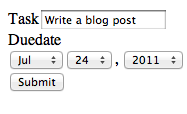
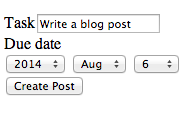
images and root files updated for 2.6 documentation

Changed region(s): [[0.0, 0.0789, 0.9893, 0.8421]]

diff --git a/conf.py b/conf.py
@@ -47,7 +47,7 @@ source_suffix = '.rst'
 master_doc = 'index'
 
 # General information about the project.
-project = 'Symfony2 Framework Documentation'
+project = 'Symfony Framework Documentation'
 copyright = ''
 
 # The version info for the project you're documenting, acts as replacement for

diff --git a/changelog.rst b/changelog.rst
@@ -13,6 +13,154 @@ documentation.
     Do you also want to participate in the Symfony Documentation? Take a look
     at the ":doc:`/contributing/documentation/overview`" article.
 
+August, 2014
+------------
+
+New Documentation
+~~~~~~~~~~~~~~~~~
+
+- `bccb080 <https://github.com/symfony/symfony-docs/commit/bccb080bd7eeb30e3d3c48c656be0c696b0cec85>`_ #4140 [Cookbook][Logging] document multiple recipients in XML configs (xabbuh)
+- `7a6e3d1 <https://github.com/symfony/symfony-docs/commit/7a6e3d19115a027bcd717916548accb9702b2fe9>`_ #4150 Added the schema_filter option to the reference (peterrehm)
+- `be90d8a <https://github.com/symfony/symfony-docs/commit/be90d8a631f9ec39f2307959bb43dc23e36fcf5a>`_ #4142 [Cookbook][Configuration] tweaks for the web server configuration chapter (xabbuh)
+- `5379f54 <https://github.com/symfony/symfony-docs/commit/5379f5402b47b77f970c034834ea65efdce9b3f3>`_ #4086 [Reference][Constraints] Added hint about attaching the expression constraint to a form field (peterrehm)
+- `041105c <https://github.com/symfony/symfony-docs/commit/041105c438f5f5072cbe6ceb380212412a2c5ef6>`_ #3883 Removed redundant POST request exclusion info (ryancastle)
+- `4f9fef6 <https://github.com/symfony/symfony-docs/commit/4f9fef61a96cfda6fa5c3ac228647ccbdbde8ea9>`_ #4000 [Cookbook] add cookbook article for the server:run command (xabbuh)
+- `4ea4dfe <https://github.com/symfony/symfony-docs/commit/4ea4dfecd531a18d4a10a697f3af8b8b9f44c365>`_ #3915 [Cookbook][Configuration] documentation of Apache + PHP-FPM (xabbuh)
+- `79cb4f1 <https://github.com/symfony/symfony-docs/commit/79cb4f1a74ec583ed6d12083d1d51f36b5e6fb9b>`_ #4069 document the namespace alias (dbu)
+- `08bed5f <https://github.com/symfony/symfony-docs/commit/08bed5fd0d9239ef5d59ec06e1c6571198daf275>`_ #4128 Finished #3759 (WouterJ)
+- `4d5adaa <https://github.com/symfony/symfony-docs/commit/4d5adaa4ccef36fbec631ad05ce7389cbd575ebd>`_ #4125 Added link to JSFiddle example (WouterJ)
+- `75bda4b <https://github.com/symfony/symfony-docs/commit/75bda4bcdcf887e5a01a399bdf7790c72499a2e9>`_ #4124 Rebased #3965 (WouterJ)
+- `e2f13a4 <https://github.com/symfony/symfony-docs/commit/e2f13a482884061a4254d3d2b0479f2aefcf8bb4>`_ #4039 [DomCrawler] Added node name getter (fejese)
+- `3f92d5f <https://github.com/symfony/symfony-docs/commit/3f92d5f5e77d63c9328ead5403ea1b3d23d62ceb>`_ #3966 [Cookbook][Controller] Add note about invokable controller services (kbond)
+- `fdb8a32 <https://github.com/symfony/symfony-docs/commit/fdb8a324b07c183cbda5e8e77ae2f59f2319a301>`_ #3950 [Components][EventDispatcher] describe the usage of the RegisterListenersPass (xabbuh)
+- `7e09383 <https://github.com/symfony/symfony-docs/commit/7e093830741508805d548402561b443874403760>`_ #3940 Updated docs for Monolog "swift" handler in cookbook. (phansys)
+- `9d7c999 <https://github.com/symfony/symfony-docs/commit/9d7c9994515a021d940dda7753d7b99916fa21d1>`_ #3895 [Validator] Support "maxSize" given in KiB (jeremy-derusse)
+- `8adfe98 <https://github.com/symfony/symfony-docs/commit/8adfe98d822c905ac7877affa14ec5e447662fbe>`_ #3894 Rewrote Extension & Configuration docs (WouterJ)
+- `cafea43 <https://github.com/symfony/symfony-docs/commit/cafea438624ea9e36639f48d38483c292a6dd476>`_ #3888 Updated the example used to explain page creation (javiereguiluz)
+- `df0cf68 <https://github.com/symfony/symfony-docs/commit/df0cf68b6ab3b8974c03482349602833f4ec5387>`_ #3885 [RFR] Added "How to Organize Configuration Files" cookbook (javiereguiluz)
+- `41116da <https://github.com/symfony/symfony-docs/commit/41116dae3d9e34852cc3ef5e105d23f5c1f67c63>`_ #4081 [Components][ClassLoader] documentation for the ClassMapGenerator class (xabbuh)
+- `2b9cb7c <https://github.com/symfony/symfony-docs/commit/2b9cb7c210245cd6586fd82ece291a5d290113f5>`_ #4076 Fixed description of session storage of the ApiKeyAuthenticator (peterrehm)
+- `35a0f66 <https://github.com/symfony/symfony-docs/commit/35a0f66254429dff1c79e20925969509c90aba0b>`_ #4102 Adding a new entry about reverse proxies in the framework (weaverryan)
+- `95c2066 <https://github.com/symfony/symfony-docs/commit/95c20664ddc5bb2c8e059b9acf44a938c573c19e>`_ #4096 labels in submit buttons + new screenshot (ricardclau)
+
+Fixed Documentation
+~~~~~~~~~~~~~~~~~~~
+
+- `5fac303 <https://github.com/symfony/symfony-docs/commit/5fac303e45053fc3fec61fc64b1a8b5a2b819af0>`_ #4165 Update voters.rst (gerryvdm)
+- `4882b99 <https://github.com/symfony/symfony-docs/commit/4882b998e3284211616e721e924fbcba0c8c96ce>`_ #4164 Fixed minor typos. (ahsio)
+- `eaaa35a <https://github.com/symfony/symfony-docs/commit/eaaa35af3b9d9753484bfc0d35fc07bc933fdb0d>`_ #4145 Fix documentation for group_sequence_provider (giosh94mhz)
+- `155c3e8 <https://github.com/symfony/symfony-docs/commit/155c3e8829c822125f7e4c69497ad6237b618a57>`_ #4153 [Reference] fix namespace in Expression constraint (xabbuh)
+- `2c93aa5 <https://github.com/symfony/symfony-docs/commit/2c93aa52114f62cb59053340b91998630316465d>`_ #4147 [Cookbook][Logging] add missing Monolog handler type in XML config (xabbuh)
+- `53b2c2b <https://github.com/symfony/symfony-docs/commit/53b2c2be9f077afb5120cb3a3b39d58961073861>`_ #4139 cleaned up the code example (gondo)
+- `b5c9f2a <https://github.com/symfony/symfony-docs/commit/b5c9f2ae0ab8b3761bf005e36c3a20df12ae4c0f>`_ #4138 fixed wrongly linked dependency (gondo)
+- `b486b22 <https://github.com/symfony/symfony-docs/commit/b486b220d3993cd0b2b60a75c2a6ba986439f5c4>`_ #4131 Replaced old way of specifying http method by the new one (Baptouuuu)
+- `93481d7 <https://github.com/symfony/symfony-docs/commit/93481d7b2236394939941809020f82005194844a>`_ #4120 Fix use mistakes (mbutkereit)
+- `c0a0120 <https://github.com/symfony/symfony-docs/commit/c0a0120cb59ae97abc813425a68311b458dc722e>`_ #4119 Fix class name in ConsoleTerminateListener example (alOneh)
+- `4629d8b <https://github.com/symfony/symfony-docs/commit/4629d8b5293b6f93897765b8317e5486d7b1e5b2>`_ #4116 Fixed the code snippets for the expression language functions (stof)
+- `d699255 <https://github.com/symfony/symfony-docs/commit/d6992559f1a4e59fe4f29db1a1b5961266d085c5>`_ #4083 [Reference] field dependent empty_data option description (xabbuh)
+- `3ffc20f <https://github.com/symfony/symfony-docs/commit/3ffc20fcee21b3df5b16e7d270634ac4e682d163>`_ #4103 [Cookbook][Forms] fix PHP template file name (xabbuh)
+- `234fa36 <https://github.com/symfony/symfony-docs/commit/234fa364612d70da60ad3cb997fca0123db473e6>`_ #4095 Fix php template (piotrantosik)
+- `01fb9f2 <https://github.com/symfony/symfony-docs/commit/01fb9f245975d8769ab6f27e9c25578270d55a29>`_ #4093 See #4091 (dannykopping)
+- `8f3a261 <https://github.com/symfony/symfony-docs/commit/8f3a261d1d1e6d6378cd67612ad9227a10334723>`_ #4092 See #4091 (dannykopping)
+- `7d39b03 <https://github.com/symfony/symfony-docs/commit/7d39b03b09d60ebb0d400f080079e6d2a2d55bdd>`_ #4079 Fixed typo in filesystem component (kohkimakimoto)
+- `f0bde03 <https://github.com/symfony/symfony-docs/commit/f0bde034a600179024847fc54fa0dcdcdd9299be>`_ #4075 Fixed typo in the yml validation (timothymctim)
+
+Minor Documentation Changes
+~~~~~~~~~~~~~~~~~~~~~~~~~~~
+
+- `e9d317a <https://github.com/symfony/symfony-docs/commit/e9d317a1fc653636605a207ed5cb2c4880860658>`_ #4160 [Reference] consistent & complete config examples (xabbuh)
+- `3e68ee7 <https://github.com/symfony/symfony-docs/commit/3e68ee78c2a7288ba0bf9264833c22c3c1b28aff>`_ #4152 Adding 'attr' option to the Textarea options list (ronanguilloux)
+- `a7f3297 <https://github.com/symfony/symfony-docs/commit/a7f329772d6cf47184e6a9fd35478107cd3d9e91>`_ #4136 [Reference] fix from suffix to prefix (xabbuh)
+- `c4eb628 <https://github.com/symfony/symfony-docs/commit/c4eb628781d5cb487d15e7effed51efbe6f64f13>`_ #4130 A set of small typos (Baptouuuu)
+- `236d8e0 <https://github.com/symfony/symfony-docs/commit/236d8e08b5d282948a42c169f0090faed66c42fc>`_ #4137 fixed directive syntax (WouterJ)
+- `6e90520 <https://github.com/symfony/symfony-docs/commit/6e90520d4c8ea72a90d910b0adac917e33e5d963>`_ #4135 [#3940] Adding php example for an array of emails (weaverryan)
+- `b37ee61 <https://github.com/symfony/symfony-docs/commit/b37ee61d264fa81811ff90e3f492708f0f70b58a>`_ #4132 Use proper way to reference a doc page for legacy sessions (Baptouuuu)
+- `189a123 <https://github.com/symfony/symfony-docs/commit/189a1234bbf0630004c4ad76a9e535e382c354ce>`_ #4129 [Components] consistent & complete config examples (xabbuh)
+- `5ab5246 <https://github.com/symfony/symfony-docs/commit/5ab5246c2499c2906239750f39a172a8afa496f4>`_ #4127 Second part of #3848 (WouterJ)
+- `46f3108 <https://github.com/symfony/symfony-docs/commit/46f3108fee8f6a514b4376ad9dddb37aa6e5342d>`_ #4126 Rebased #3848 (WouterJ)
+- `84e6e7f <https://github.com/symfony/symfony-docs/commit/84e6e7f69f7fc5693075012d69509ad437f455ff>`_ #4114 [Book] consistent and complete config examples (xabbuh)
+- `03fcab1 <https://github.com/symfony/symfony-docs/commit/03fcab142743528643ee04895b2287420e2a1d76>`_ #4112 [Contributing][Documentation] add order of translation formats (xabbuh)
+- `650120a <https://github.com/symfony/symfony-docs/commit/650120ada5c432d2a2a3f54386c88f180d0f43b3>`_ #4002 added Github teams for the core team (fabpot)
+- `10792c3 <https://github.com/symfony/symfony-docs/commit/10792c330506ad2366147f36410233341e86701e>`_ #3959 [book][cache][tip] added cache annotations. (aitboudad)
+- `ebaed21 <https://github.com/symfony/symfony-docs/commit/ebaed21ff67074d02d5812060fc9d5f85ec237e1>`_ #3944 Update dbal.rst (bpiepiora)
+- `16e346a <https://github.com/symfony/symfony-docs/commit/16e346ad07c8139b20bbc10600ceed1563fbe1f2>`_ #3890 [Components][HttpFoundation] use a placeholder for the constructor arguments (xabbuh)
+- `7bb4f34 <https://github.com/symfony/symfony-docs/commit/7bb4f3447d0b0a7bd524dfbb89dc4a17f8090a8b>`_ #4115 [Documentation] [Minor] Changes foobar.net in example.com (magnetik)
+- `12d0b82 <https://github.com/symfony/symfony-docs/commit/12d0b825f158639928e0ea9acc9535cc4ffbd676>`_ #4113 tweaks to the new reverse proxy/load balancer chapter (xabbuh)
+- `4cce133 <https://github.com/symfony/symfony-docs/commit/4cce133b5b55fce7cafa26257e530838f587a814>`_ #4057 Update introduction.rst (carltondickson)
+- `26141d6 <https://github.com/symfony/symfony-docs/commit/26141d68dfda0959ad75e17c5db51de399f97975>`_ #4080 [Reference] order form type options alphabetically (xabbuh)
+- `7806aa7 <https://github.com/symfony/symfony-docs/commit/7806aa7de543baf167d445dc5901121a2e460599>`_ #4117 Added a note about the automatic handling of the memory spool in the CLI (stof)
+- `5959b6c <https://github.com/symfony/symfony-docs/commit/5959b6c64156e0e6dfca060412358b12c5ea117b>`_ #4101 [Contributing] extended Symfony 2.4 maintenance (xabbuh)
+- `e2056ad <https://github.com/symfony/symfony-docs/commit/e2056ad7db522e117c5f310690c993a2a5a3a725>`_ #4072 [Contributing][Code] add note on Symfony SE forks for bug reports (xabbuh)
+- `b8687dd <https://github.com/symfony/symfony-docs/commit/b8687dd452ac200adbc8aee347c9235329f1f265>`_ #4091 Put version into quotes, otherwise it fails in ZSH (dannykopping)
+- `665c091 <https://github.com/symfony/symfony-docs/commit/665c0913e52470f4b4b8070a52462285cad62863>`_ #4087 Typo (tvlooy)
+- `f95bbf3 <https://github.com/symfony/symfony-docs/commit/f95bbf34c990d3d7e06fa48d790f06ff5814563e>`_ #4023 [Cookbook][Security] usage of a non-default entity manager in an entity user provider (xabbuh)
+- `27b1003 <https://github.com/symfony/symfony-docs/commit/27b10033d12a247f3af22333e7854d402ff3139d>`_ #4074 Fixed (again) a typo: Toolbet --> Toolbelt (javiereguiluz)
+- `c97418f <https://github.com/symfony/symfony-docs/commit/c97418fdb030960c5f0dd10a635a4d49579c4216>`_ #4073 Reworded bundle requirement (WouterJ)
+- `e5d5eb8 <https://github.com/symfony/symfony-docs/commit/e5d5eb8ae4307c17b3e2e157eafb4d5d32d0f557>`_ #4066 Update inherit_data_option.rst (Oylex)
+- `9c08572 <https://github.com/symfony/symfony-docs/commit/9c08572fc55a8dff83ff7e3c985f3e66936d57af>`_ #4064 Fixed typo on tag service (saro0h)
+
+July, 2014
+----------
+
+New Documentation
+~~~~~~~~~~~~~~~~~
+
+- `1b4c1c8 <https://github.com/symfony/symfony-docs/commit/1b4c1c86a3e4729e1a6ce226963ac05577b8ab8f>`_ #4045 Added a new "Deploying to Heroku Cloud" cookbook article (javiereguiluz)
+- `f943eee <https://github.com/symfony/symfony-docs/commit/f943eee70cf81b90a598d94f400a3723216fe726>`_ #4009 Remove "Controllers extends ContainerAware" best practice (tgalopin)
+- `eae9ad0 <https://github.com/symfony/symfony-docs/commit/eae9ad037ed402752238e4eb1c9c0b2fdc443d7d>`_ #3875 Added a note about customizing a form with more than one template (javiereguiluz)
+- `2ae4f34 <https://github.com/symfony/symfony-docs/commit/2ae4f34a1e0afe699ccaacf2740440a0752a9a99>`_ #3746 [Validator] Disallow empty file in FileValidator (megazoll)
+- `1938c2f <https://github.com/symfony/symfony-docs/commit/1938c2f9f7dbf770d694d1cc976fde5e519ba47c>`_ #3724 Updated ISBN validator docs (sprain)
+- `7c71b18 <https://github.com/symfony/symfony-docs/commit/7c71b188f4fae43c1ff141b2d84f887b131d2b71>`_ #2952 Enabling profiler in test (danieledangeli)
+- `d6787b7 <https://github.com/symfony/symfony-docs/commit/d6787b7b64ed6d20cafee0134a99e590bee6102b>`_ #3989 adde stof as a merger (fabpot)
+- `4a9e49e <https://github.com/symfony/symfony-docs/commit/4a9e49ef142fdeeb5523dbdcf73503ac602373e7>`_ #3946 DQL custom functions on doctrine reference page (healdropper)
+- `2b2d9d3 <https://github.com/symfony/symfony-docs/commit/2b2d9d348a7d9c46b9a5b04ef2cd088151668886>`_ #3972 Added PSR-4 to Class Loaders list (dosten)
+
+Fixed Documentation
+~~~~~~~~~~~~~~~~~~~
+
+- `1b695b5 <https://github.com/symfony/symfony-docs/commit/1b695b52a3f8094daf18d212a124a6050f2fad1a>`_ #4063 fix parent form types (xabbuh)
+- `7901005 <https://github.com/symfony/symfony-docs/commit/7901005f37d223cd4541648131bccc0e4bd687d5>`_ #4048 $this->request replaced by $request (danielsan)
+- `f6123f1 <https://github.com/symfony/symfony-docs/commit/f6123f1bb06d624fc2d0506bcf6f4016c0b3e371>`_ #4031 Update form_events.rst (redstar504)
+- `99932cf <https://github.com/symfony/symfony-docs/commit/99932cf0f98c15e0504a41867046b374305865d3>`_ #4010 [Console] Fixed documentation for ProgressBar (VasekPurchart)
+- `06f8c31 <https://github.com/symfony/symfony-docs/commit/06f8c3157f76da36847a70d132c61971ac72dc1e>`_ #4012 Fix xml route configuration for routing condition (xavierbriand)
+- `a2a628f <https://github.com/symfony/symfony-docs/commit/a2a628f0b2d60878041cd2a008f9ddfd9a471408>`_ #4025 added CVE 2014-4931 (fabpot)
+- `a1435e5 <https://github.com/symfony/symfony-docs/commit/a1435e57fd95e14ffff171f797133a1c52569cb1>`_ #3998 [Console] Fixed QuestionHelper examples (florianv)
+- `b32f9f2 <https://github.com/symfony/symfony-docs/commit/b32f9f2981ae3d63d547c07cee7f0cb03dc7db5a>`_ #3771 Fix function example in expression language component (raulfraile)
+- `eb813a5 <https://github.com/symfony/symfony-docs/commit/eb813a563c564358ba82253ea667516cd3e7191d>`_ #3979 removed invalid processors option (ricoli)
+
+Minor Documentation Changes
+~~~~~~~~~~~~~~~~~~~~~~~~~~~
+
+- `a4bdb97 <https://github.com/symfony/symfony-docs/commit/a4bdb97a92dd54709cd85be8e9998a6ced6974da>`_ #4070 Added a note about permissions in the Quick Tour (javiereguiluz)
+- `a7fe00f <https://github.com/symfony/symfony-docs/commit/a7fe00fedea3ba89089a2de6fb54970cdbe2440e>`_ #4068 Remove diff info from cookbook/security/voters.rst (pmartelletti)
+- `b3f15b2 <https://github.com/symfony/symfony-docs/commit/b3f15b2dc78c0593e6db09311c0c79eba68a97f0>`_ #4059 eraseCredentials method typo (danielsan)
+- `44091b1 <https://github.com/symfony/symfony-docs/commit/44091b132c1007535ff3030a64126751486982cd>`_ #4053 Update doctrine.rst (sr972)
+- `b06ad60 <https://github.com/symfony/symfony-docs/commit/b06ad6041164479c049ae4c202b13b3f248c3bed>`_ #4052 [Security] [Custom Provider] Use properties on WebserviceUser (entering)
+- `a834a7e <https://github.com/symfony/symfony-docs/commit/a834a7e883e78005ed41a6cea0dcee058ed85b1f>`_ #4042 [Cookbook] apply headline guidelines to the cookbook articles (xabbuh)
+- `f25faf3 <https://github.com/symfony/symfony-docs/commit/f25faf3ed3facd3812b743288465ee9ca25397a4>`_ #4046 Fixed a syntax error (javiereguiluz)
+- `3c660d1 <https://github.com/symfony/symfony-docs/commit/3c660d13390cc1cf05e9d0be98bbce847002c05b>`_ #4044 Added editorconfig (WouterJ)
+- `ae3ec04 <https://github.com/symfony/symfony-docs/commit/ae3ec048e8583082928bffadb079d1391e888f0f>`_ #4041 [Cookbook][Deployment] link to the deployment index (xabbuh)
+- `2e4fc7f <https://github.com/symfony/symfony-docs/commit/2e4fc7f3a5dd4caa4ee5cbfade6989e71bcda123>`_ #4030 enclose YAML strings containing % with quotes (xabbuh)
+- `9520d92 <https://github.com/symfony/symfony-docs/commit/9520d9299e6ddbc19985e0ed322349c70d89cdc7>`_ #4038 Update rendered tag (kirill-oficerov)
+- `f5c2602 <https://github.com/symfony/symfony-docs/commit/f5c260219f8e7df969493df2fe2d2feb1fc97e19>`_ #4036 Update page_creation.rst (redstar504)
+- `c2eda93 <https://github.com/symfony/symfony-docs/commit/c2eda939ad8681721cd1b12bcedadd1faf294725>`_ #4034 Update internals.rst (redstar504)
+- `a5ad0df <https://github.com/symfony/symfony-docs/commit/a5ad0dfbf9ad2dcc84e7f9c6de73c8bad2a89e2f>`_ #4035 Update version in Rework your Patch section (yguedidi)
+- `eed8d64 <https://github.com/symfony/symfony-docs/commit/eed8d646ad134bba1002f98800cab46d06241a05>`_ #4026 Updating Symfony version from 2.4 to 2.5 (danielsan)
+- `12752c1 <https://github.com/symfony/symfony-docs/commit/12752c1decd5ec5a3bce960c094f45738122152f>`_ #4013 Removed wrong reference to cookbook (gquemener)
+- `ec832dc <https://github.com/symfony/symfony-docs/commit/ec832dc4eadbe5afdfb5f39994b69748b733a85b>`_ #3994 [Console] Fix Console component $app to $this and use of getHelper() method (eko)
+- `d8b037a <https://github.com/symfony/symfony-docs/commit/d8b037a989c1581ae671e81284d0d758254d8e1e>`_ #4019 Update twig_reference.rst (redstar504)
+- `7ea87e6 <https://github.com/symfony/symfony-docs/commit/7ea87e63e3417c59e47972b9cf12ca76cce4b195>`_ #4016 Fixed the format of one letter-based list (javiereguiluz)
+- `579a873 <https://github.com/symfony/symfony-docs/commit/579a8732299dd944998ab3fee4fa738a3c45cea2>`_ #4015 Fixed bad indenting (the list was treated as a blockquote) (javiereguiluz)
+- `4669620 <https://github.com/symfony/symfony-docs/commit/466962051e0753557fc75d9d449083d68ae48992>`_ #4004 use GitHub instead of Github (xabbuh)
+- `a3fe74f <https://github.com/symfony/symfony-docs/commit/a3fe74f4fad9f691dc570fb9234acd15bd6ccfdc>`_ #3993 [Console] Fix Console component getHelperSet()->get() to getHelper() (eko)
+- `a41af7e <https://github.com/symfony/symfony-docs/commit/a41af7e0f4a10cf7a6230598fd955dab2559935e>`_ #3880 document the mysterious abc part of the header (greg0ire)
+- `90773b0 <https://github.com/symfony/symfony-docs/commit/90773b03425388542d1b0face5368eb4c47ce3b8>`_ #3990 Move the section about collect: false to the cookbook entry (weaverryan)
+- `2ae8281 <https://github.com/symfony/symfony-docs/commit/2ae82816556478c75ba9873589b2d77987156c36>`_ #3864 plug rules for static methods (cordoval)
+- `d882cc0 <https://github.com/symfony/symfony-docs/commit/d882cc0e0b41e8c49187854d40dfb0963b429939>`_ #3988 fix typos. (yositani2002)
+- `b67a059 <https://github.com/symfony/symfony-docs/commit/b67a059d5ff8c45482df135ed8dda5b3bcc81f3a>`_ #3986 Rebased #3982 - Some fixes (WouterJ)
+- `801c756 <https://github.com/symfony/symfony-docs/commit/801c7565a3e6c0d440fb86f1b2fd4a076ff4399c>`_ #3977 [WCM] removed call to deprecated getRequest() method (Baptouuuu)
+- `4c1d4ae <https://github.com/symfony/symfony-docs/commit/4c1d4ae506a7dc68fad57ddf6cc25c17a00169a4>`_ #3968 Proofreading the new Azure deployment article (weaverryan)
+
 June, 2014
 ----------
 

diff --git a/glossary.rst b/glossary.rst
@@ -7,12 +7,12 @@ Glossary
    :sorted:
 
    Distribucija
-        *Distribucija* je paket izdelan iz Symfony2 komponent,
+        *Distribucija* je paket izdelan iz Symfony komponent,
         izbire paketov, smiselne strukture direktorijev, privzetih nastavitev
         in opcijskega nastavitvenega sistema.
 
    Dependency Injection
-        Dependency Injection je načrtovalski vzorec, veliko uporabljen v Symfony2 ogrodju.
+        Dependency Injection je načrtovalski vzorec, veliko uporabljen v Symfony ogrodju.
         Spodbuja ohlapno skupno in bolj trajnostno arhitektur aplikacije.
         Glavni princip tega vzorca je, da dovoljuje razvijalcem *vbrizganje* objektov
         (znanih tudi kot storitve) v druge objekte, v splošnem jih podaja kot parametre.
@@ -33,7 +33,7 @@ Glossary
    Paket (Bundle)
         *Paket* je direktorij, ki vsebuje skupek datotek (PHP datotek,
         stilskih datotek, JavaScript, slike, ...), ki *implementirajo* eno
-        lastnost (blog, forum itd.). V Symfony2, se (*skoraj*) vse
+        lastnost (blog, forum itd.). V Symfony, se (*skoraj*) vse
         nahaja znotraj paketa. (see :ref:`page-creation-bundles`)
 
    Prednji krmilnik
@@ -51,7 +51,7 @@ Glossary
    Service
         *Storitev* je generičen termin za katerokoli PHP objekt, ki izvaja določeno
         opravilo. Storitev je običajno uporabljena "globalno", kot objekt povezave
-        podatkovne baze ali objekt, ki dostavlja e-poštna sporočila. V Symfony2 so
+        podatkovne baze ali objekt, ki dostavlja e-poštna sporočila. V Symfony so
         storitve pogosto nastavljene in pridobljene iz storitvenega kontejnerja.
         Aplikacija, ki ima mnoge skupne storitve, pomeni, da sledi
         `service-oriented architecture`_.
@@ -81,9 +81,9 @@ Glossary
 
    Izdelovalec (Vendor)
         *Izdelovalec* je ponudnik PHP knjižnic in paketov, kar vključuje tudi sam
-        Symfony2. Razen običajnih komercialnih konotacij besede, izdelovalec v Symfony
+        Symfony. Razen običajnih komercialnih konotacij besede, izdelovalec v Symfony
         pogosto (celo običajno) vključuje brezplačno programsko opremo. Katerakoli
-        knjižnica, ki jo dodate v vaš Symfony2 projekt bi morala iti v ``vendor``
+        knjižnica, ki jo dodate v vaš Symfony projekt bi morala iti v ``vendor``
         direktorij. Poglejte si še
         :ref:`The Architecture: Using Vendors <using-vendors>`.
 
@@ -104,13 +104,13 @@ Glossary
         v web direktorij z uporabo ``assets:install`` opravila ukazne komande.
 
    Jedro (Kernel)
-        *Jedro* je središče Symfony2. Kernel objekt upravlja HTTP
+        *Jedro* je središče Symfony. Kernel objekt upravlja HTTP
         zahtevke z uporabo vseh paketov in knjižnic registriranih v njem. Oglejte si
         :ref:`The Architecture: The Application Directory <the-app-dir>` in
         :doc:`/book/internals` poglavje.
 
    Požarni zid
-        V Symfony2, *požarni zid* nima nič opraviti z omrežjem. Namesto tega,
+        V Symfony, *požarni zid* nima nič opraviti z omrežjem. Namesto tega,
         definira mehanizme preverjanja pristnosti (t.j. ravnanje s procesom
         določanja identifikacije vaših uporabnikov), ali za celo aplikacijo,
         ali samo za del nje. Oglejte si
@@ -118,7 +118,7 @@ Glossary
 
    YAML
         *YAML* je rekurzivna kratica za "YAML Ain't a Markup Language". Gre za
-        lahko, človeku prijazen serializacijski jezik, uporabljen obširno v Symfony2
+        lahko, človeku prijazen serializacijski jezik, uporabljen obširno v Symfony
         nastavitvenih datotekah. Oglejte si :doc:`/components/yaml/introduction`
         poglavje.
 

diff --git a/index.rst b/index.rst
@@ -1,5 +1,7 @@
-Symfony2 dokumentacija
-======================
+.. _symfony2-documentation:
+
+Symfony dokumentacija
+=====================
 
 .. toctree::
     :hidden:
@@ -9,7 +11,7 @@ Symfony2 dokumentacija
 Hiter pregled
 -------------
 
-Začnite s Symfony2 hitro :doc:`Hiter pregled <quick_tour/index>`:
+Začnite s Symfony hitro :doc:`Hiter pregled <quick_tour/index>`:
 
 .. toctree::
     :hidden:
@@ -24,7 +26,7 @@ Začnite s Symfony2 hitro :doc:`Hiter pregled <quick_tour/index>`:
 Knjiga
 ------
 
-Poglobite se v Symfony2 s tematskimi vodiči:
+Poglobite se v Symfony s tematskimi vodiči:
 
 .. toctree::
     :hidden:
@@ -81,7 +83,7 @@ CMF
 ---
 
 Symfony CMF projekt omogoča za razvijalce enostavnejše dodajanje CMS funkcionalnosti
-v aplikacije zgrajene s Symfony2 PHP ogrodjem.
+v aplikacije zgrajene s Symfony PHP ogrodjem.
 
 .. toctree::
     :hidden:
@@ -91,7 +93,7 @@ v aplikacije zgrajene s Symfony2 PHP ogrodjem.
 Prispevanje
 -----------
 
-Prispevajte k Symfony2:
+Prispevajte k Symfony:
 
 .. toctree::
     :hidden:
